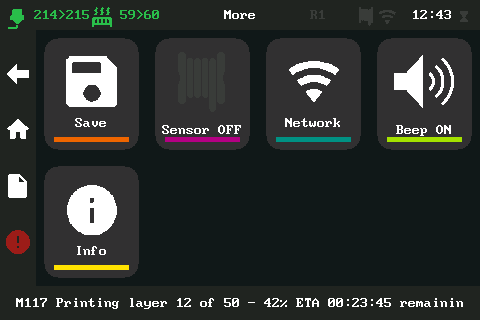
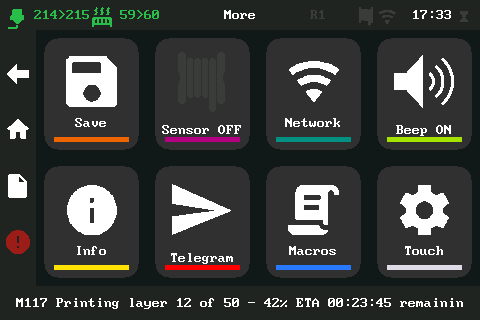
(3)(5)(8) file confirm/delete, custom macro tiles, touch wizard
- tapping a file now asks Print (with the estimated time from Moonraker) or
  Delete, instead of starting it straight away
- More -> Macros reads panel_macros.json and draws up to 7 custom tiles
  (example file in tools/); unknown icons fall back to 'script'
- More -> Touch runs a 4-point calibration wizard and prints the raw values
  plus swap/invert flags to paste into [display]

Changed region(s): [[0.3125, 0.5, 0.75, 0.875], [0.7812, 0.5, 1.0, 0.875], [0.9062, 0.0312, 0.9375, 0.0625]]

diff --git a/mcu/st7796.py b/mcu/st7796.py
@@ -14,6 +14,7 @@ import socket
 import subprocess
 import threading
 import time
+import urllib.parse
 import urllib.request
 from . import tft_icons
 from . import tft_thumb
@@ -108,6 +109,10 @@ GUI_SCREENS = {
     ],
     # 'probe' (Z-Probe) is drawn by _probe_view_ops: see Z_STEPS below.
     'probe': [],
+    # 'touch calibration' wizard draws its own overlay.
+    'tcal': [],
+    # 'macros' is filled from panel_macros.json at runtime.
+    'macros': [],
     # 'print' is built dynamically from the virtual SD files (see _print_items)
     'print': [],
     'filament': [
@@ -138,6 +143,8 @@ GUI_SCREENS = {
         ("Beep", "beep", ('beep',)),
         ("Info", "info", ('scr', 'info')),
         ("Telegram", "tg", ('tgtest',)),
+        ("Macros", "script", ('scr', 'macros')),
+        ("Touch", "settings", ('scr', 'tcal')),
     ],
 }
 
@@ -228,7 +235,8 @@ GUI_TITLES = {'ptune': 'Tune', 'filament': 'Filament',
               'meshadj': 'Adjust', 'advanced': 'Advanced',
               'limits': 'Limits', 'calibrate': 'Calibrate', 'pid': 'PID',
               'info': 'Info', 'filout': 'Filament',
-              'wifilist': 'WiFi', 'wifikey': 'WiFi'}
+              'wifilist': 'WiFi', 'wifikey': 'WiFi',
+              'tcal': 'Touch', 'macros': 'Macros'}
 
 # Sentinel stored in the grid for a cell holding an icon (drawn by write_glyph).
 ICON = 0x100
@@ -694,6 +702,9 @@ class ST7796:
         self._upd_n = 0
         self._upd_next = 0.
         self._upd_busy = False
+        self._choice = None
+        self._macros_cache = (0., [])
+        self._tcal = None
         self._bstep_i = 1
         self._baby_dirty = False
         self._popup = None
@@ -1567,6 +1578,8 @@ class ST7796:
     def _screen_items(self):
         if self.gui_screen == 'print':
             return []
+        if self.gui_screen == 'macros':
+            return self._macro_items()
         return GUI_SCREENS.get(self.gui_screen, [])
     def _gui_buttons(self):
         cols = GUI_COLS.get(self.gui_screen, 4)
@@ -3193,7 +3206,7 @@ class ST7796:
         elif kind == 'print':
             files = self._sd_files()
             if files:
-                self._gui_do(('sd', files[self._sd_sel][0]), eventtime)
+                self._choice_open(files[self._sd_sel][0], eventtime)
             return
         self._gui_render(eventtime)
         self._gui_run_action("M300 S600 P12" if self.gui_beep else None)
@@ -3454,7 +3467,11 @@ class ST7796:
                                            self._gc(idx)]))
         ops.append(lambda et=eventtime: self._gui_topbar(et))
         ops.append(lambda et=eventtime: self._gui_bottombar(et))
-        if getattr(self, '_notice', None):
+        if self.gui_screen == 'tcal':
+            self._tcal_ops(ops)
+        elif getattr(self, '_choice', None):
+            self._choice_ops(ops)
+        elif getattr(self, '_notice', None):
             self._notice_ops(ops)
         self._gui_enqueue(ops)
     def _raw_to_screen(self, rx, ry):
@@ -4082,6 +4099,174 @@ class ST7796:
             return " / ".join(out) or "everything is up to date"
         except Exception:
             return "cannot read the update status"
+
+    # --- file choice popup ------------------------------------------------
+    def _choice_btns(self):
+        w = 150
+        h = 46
+        y = self.TOP_H + 150
+        return [('print', (self.width - 2 * w - 12) // 2, y, w, h),
+                ('del', (self.width - 2 * w - 12) // 2 + w + 12, y, w, h)]
+    def _choice_ops(self, ops):
+        bg = self.gui_bar_bg
+        w, h = 400, 210
+        x = (self.width - w) // 2
+        y = self.TOP_H + (self.height - self.STRIP_H - self.TOP_H - h) // 2
+        ops.append(lambda: self._gui_round(x, y, w, h, bg))
+        name = self._choice.get('name', '')
+        ops.append(lambda: self._gui_text_center(
+            x, w, y + 14, name[-26:], COL_WHITE, bg, 1))
+        eta = self._choice.get('eta')
+        sub = ('estimated %s' % eta) if eta else 'reading the file...'
+        ops.append(lambda: self._gui_text_center(
+            x, w, y + 40, sub, COL_DIM2, bg, 1))
+        for (kind, bx, by, bw, bh) in self._choice_btns():
+            lab = "Print" if kind == 'print' else "Delete"
+            acc = COL_OK if kind == 'print' else COL_ERR
+            ops.append(lambda bx=bx, by=by, bw=bw, bh=bh: self._gui_round(
+                bx, by, bw, bh, self.gui_btn_bg))
+            ops.append(lambda bx=bx, by=by, bw=bw, bh=bh, lab=lab:
+                       self._gui_text_center(bx, bw, by + (bh - 16) // 2,
+                                             lab, COL_WHITE, self.gui_btn_bg,
+                                             1))
+            ops.append(lambda bx=bx, by=by, bw=bw, bh=bh, acc=acc:
+                       self.cmd_rect.send([bx + 8, by + bh - 9, bw - 16, 4,
+                                           acc]))
+    def _choice_open(self, name, eventtime):
+        self._choice = {'name': name, 'eta': None}
+        self._gui_render(eventtime)
+
+        def _run():
+            try:
+                q = urllib.parse.quote(name)
+                with urllib.request.urlopen(
+                        'http://127.0.0.1:7125/server/files/metadata'
+                        '?filename=' + q, timeout=10) as r:
+                    d = json.loads(r.read().decode())['result']
+                est = int(d.get('estimated_time') or 0)
+            except Exception:
+                est = 0
+            if est > 0 and self._choice is not None:
+                self._choice = {'name': name,
+                                'eta': '%dh%02dm' % (est // 3600,
+                                                     (est % 3600) // 60)}
+            self._gui_pending = time.monotonic() + 0.2
+        threading.Thread(target=_run, daemon=True).start()
+    def _file_delete(self, name, eventtime):
+        def _run():
+            ok = False
+            try:
+                q = urllib.parse.quote(name)
+                req = urllib.request.Request(
+                    'http://127.0.0.1:7125/server/files/gcodes/' + q,
+                    method='DELETE')
+                with urllib.request.urlopen(req, timeout=10) as r:
+                    ok = r.status == 200
+            except Exception:
+                ok = False
+            self._notice = (("File deleted" if ok else "Delete failed"),
+                            name[-40:])
+            self._notice_icon = 'check' if ok else 'alert'
+            self._sd_cache_t = 0.
+            self._gui_pending = time.monotonic() + 0.2
+        threading.Thread(target=_run, daemon=True).start()
+
+    # --- custom macros (panel_macros.json) --------------------------------
+    def _panel_macros(self):
+        path = os.path.expanduser('~/printer_data/config/panel_macros.json')
+        try:
+            mt = os.stat(path).st_mtime
+        except OSError:
+            return []
+        if self._macros_cache[0] == mt:
+            return self._macros_cache[1]
+        try:
+            with open(path) as f:
+                data = json.load(f)
+            out = []
+            for it in data:
+                if isinstance(it, dict) and it.get('label') and it.get('gcode'):
+                    ico = str(it.get('icon') or 'script')
+                    if ico not in tft_icons.ICONS and ico not in EXTRA_ICONS:
+                        ico = 'script'
+                    out.append((str(it['label'])[:10], ico, str(it['gcode'])))
+        except Exception:
+            out = []
+        self._macros_cache = (mt, out)
+        return out
+    def _macro_items(self):
+        items = list(self._panel_macros())[:7]
+        items.append(("Back", "back", ('scr', 'more')))
+        return items
+
+    # --- touch calibration wizard -----------------------------------------
+    TCAL_STEPS = 4
+    def _tcal_targets(self):
+        r = self.RAIL_W + 42
+        top = self.TOP_H + 42
+        bot = self.height - self.STRIP_H - 42
+        return [(r, top), (self.width - 42, top),
+                (r, bot), (self.width - 42, bot)]
+    def _tcal_ops(self, ops):
+        if self._tcal is None:
+            self._tcal = {'pts': [], 'res': None}
+        t = self._tcal
+        bg = COL_BG
+        res = t.get('res')
+        if res:
+            x0, x1, y0, y1, swap, invx, invy = res
+            lines = [("raw_x_min: %d" % x0, COL_WHITE),
+                     ("raw_x_max: %d" % x1, COL_WHITE),
+                     ("raw_y_min: %d" % y0, COL_WHITE),
+                     ("raw_y_max: %d" % y1, COL_WHITE),
+                     ("touch_swap_xy: %s" % swap, COL_WARN if swap else COL_DIM2),
+                     ("touch_invert_x: %s" % invx, COL_WARN if invx else COL_DIM2),
+                     ("touch_invert_y: %s" % invy, COL_WARN if invy else COL_DIM2)]
+            ops.append(lambda: self._gui_text(self.RAIL_W + 14, self.TOP_H + 14,
+                                              "Paste under [display]:",
+                                              COL_DIM2, bg, 1))
+            y = self.TOP_H + 40
+            for txt, col in lines:
+                ops.append(lambda txt=txt, y=y, col=col:
+                           self._gui_text(self.RAIL_W + 14, y, txt, col, bg, 1))
+                y += 22
+            ops.append(lambda: self._gui_text(self.RAIL_W + 14, y + 8,
+                                              "tap anywhere to finish",
+                                              COL_DIM2, bg, 1))
+            return
+        n = len(t['pts'])
+        tx, ty = self._tcal_targets()[min(n, 3)]
+        ops.append(lambda: self._gui_text_center(
+            self.RAIL_W, self.width - self.RAIL_W, self.TOP_H + 6,
+            "Touch calibration", COL_WHITE, bg, 1))
+        ops.append(lambda: self._gui_text_center(
+            self.RAIL_W, self.width - self.RAIL_W, self.TOP_H + 24,
+            "tap the crosshair (%d of 4)" % (n + 1), COL_DIM2, bg, 1))
+        ops.append(lambda: self.cmd_rect.send([tx - 1, ty - 24, 3, 48, COL_WARN]))
+        ops.append(lambda: self.cmd_rect.send([tx - 24, ty - 1, 48, 3, COL_WARN]))
+    def _tcal_tap(self, rx, ry, eventtime):
+        t = self._tcal
+        if t is None:
+            return
+        if t.get('res'):
+            self._tcal = None
+            self._gui_do(('scr', 'more'), eventtime)
+            return
+        t['pts'].append((rx, ry))
+        if len(t['pts']) >= 4:
+            ax, ay = t['pts'][0]
+            bx, by = t['pts'][1]
+            cx, cy = t['pts'][2]
+            dx2, dy2 = t['pts'][3]
+            swap = abs(ay - by) > abs(ax - bx)
+            if swap:
+                xs = [ay, by, cy, dy2]; ys = [ax, bx, cx, dx2]
+            else:
+                xs = [ax, bx, cx, dx2]; ys = [ay, by, cy, dy2]
+            invx = (by < ay) if not swap else (bx < ax)
+            invy = (cx < ax) if not swap else (cy < ay)
+            t['res'] = (min(xs), max(xs), min(ys), max(ys), swap, invx, invy)
+        self._gui_render(eventtime)
 
     # --- on-screen keyboard ----------------------------------------------
     _KB_LETTERS = (list('qwertyuiop'),
@@ -4914,6 +5099,26 @@ class ST7796:
         if (self.width - 156) <= sx0 < (self.width - 136) and 2 <= sy0 < 28:
             self._notice = ("Updates available", self._upd_text()[:40])
             self._notice_icon = 'refresh'
+            self._gui_render(eventtime)
+            return
+        if self.gui_screen == 'tcal':
+            try:
+                self._tcal_tap(rx, ry, eventtime)
+            except Exception:
+                logging.exception("st7796: touch calibration failed")
+            return
+        if self._choice is not None:
+            for (kind, x, y, w, h) in self._choice_btns():
+                if x <= sx0 < x + w and y <= sy0 < y + h:
+                    name = self._choice.get('name', '')
+                    self._choice = None
+                    if kind == 'print':
+                        self._gui_do(('sd', name), eventtime)
+                    else:
+                        self._file_delete(name, eventtime)
+                        self._gui_render(eventtime)
+                    return
+            self._choice = None
             self._gui_render(eventtime)
             return
         if self._notice:

diff --git a/tools/tft_sim.py b/tools/tft_sim.py
@@ -214,6 +214,9 @@ def build(printing, paused=False):
     o._kb_sym = False
     o._kb_show = False
     o._err_shown = None
+    o._choice = None
+    o._macros_cache = (0., [])
+    o._tcal = None
     o._upd_n = 0
     o._upd_next = 0.
     o._upd_busy = False

diff --git a/README.md b/README.md
@@ -24,6 +24,8 @@ max (most of the time is the first controller flash).
 | ![Extruder](images/panel_extrude.png)<br>**Extruder** — load/unload filament, extrude | ![Filament](images/panel_filament.png)<br>**Filament** — eject/insert, live baby stepping |
 | ![More](images/panel_more.png)<br>**More** — save config, filament sensor, network, beep | ![Power](images/panel_estop.png)<br>**Power** — emergency stop, restart, host shutdown |
 | ![Adjust popup](images/panel_popup.png)<br>**Adjust popup** — −, +, step toggle and save | ![Boot splash](images/splash.png)<br>**Boot splash** — the Mingda mark, drawn by the board |
+| ![File confirm](images/panel_file_choice.png)<br>**Files** — confirm with the estimated time, or delete | ![Macros](images/panel_macros.png)<br>**Macros** — your own buttons from a JSON file |
+| ![Touch calibration](images/panel_touch_cal.png)<br>**Touch** — 4-point calibration wizard | ![Klipper error](images/panel_klipper_error.png)<br>**Klipper error** — the reason, then restart right there |
 
 ---
 
@@ -219,7 +221,7 @@ Everything is a tap; the left rail is always there
 | Screen | How to get there | What it does |
 |---|---|---|
 | **Printing** | starts automatically during a print | Object preview (from the gcode thumbnail), live values list, pause/resume, cancel. Tap a list row to adjust it on the spot. |
-| **Files** | rail 📄 or **Main → Print** | Pick a file, ▲/▼ page, ▶ to start |
+| **Files** | rail 📄 or **Main → Print** | Pick a file (▲/▼ page); ▶ asks **Print** (with the estimated time) or **Delete** — tap outside to cancel |
 | **Main** | rail 🏠 | Move, Temperature, Extruder, Print, Level, Z Calibrate, More, Home |
 | **Move** | Main → Move | Jog X/Y/Z; the bottom strip changes the step size |
 | **Temperature** | Main → Temperature | Preheat presets (PLA/PETG/ABS/TPU), cool down, set nozzle/bed |
@@ -228,11 +230,16 @@ Everything is a tap; the left rail is always there
 | **Adjust** | Level → Adjust | Tap a grid point (the nozzle moves there and down to the mesh surface), then nudge with − / + and a 0.005/0.01/0.1 step. **Save** writes it to `printer.cfg`. |
 | **Advanced** | Extruder → More… → Advanced | Pressure advance, smooth time, input shaper frequencies — tap a card, adjust, **Save** to keep it |
 | **Limits** | More → More… → Limits | Velocity, acceleration, square corner velocity, minimum cruise ratio |
-| **More** | Main → More | PID, save config, filament sensor, network info, beep, motors off |
+| **More** | Main → More | Save config, filament sensor, network, beep, Info, Telegram, **Macros**, **Touch** |
+| **Macros** | More → Macros | Your own buttons, defined in `panel_macros.json` (see below) |
+| **Touch** | More → Touch | 4-point touch calibration: tap the crosshairs, then copy the printed values into `printer.cfg` |
+| **Klipper error** | appears by itself | If Klipper stops, the panel shows the reason and two buttons: **Firmware Restart** and **Host Reboot** |
 | **Power** | rail ⚠ | Emergency stop, Klipper restart, **Firmware restart**, reboot/shutdown the Pi |
 
 Tips
 
+- The top bar shows an **orange arrow** when Moonraker finds updates for
+  Klipper or Mainsail; tap it to see how many commits each one is behind.
 - The **amount of each adjustment** (the step) is itself a button: tap it to
   cycle 0.1 → 0.5 → 1 → … or 0.005 → 0.01 → 0.1.
 - **Pause**, **Cancel** and the rail always work, even mid-print.
@@ -329,6 +336,32 @@ sudo visudo -c          # must say "parsed OK"
 The keyboard that asks for the WiFi password also edits the hostname
 (`a-z`, `0-9`, `-`, up to 63 characters). Passwords are masked on screen and
 never written to the Klipper log.
+
+## Custom macro tiles
+
+Any of your macros can have its own big button. Create
+`~/printer_data/config/panel_macros.json` (up to 7 entries) and it shows up
+under **More → Macros**. The file is re-read whenever it changes — no restart.
+
+```json
+[
+  {"label": "Preheat PLA", "icon": "heatup", "gcode": "PREHEAT_PLA"},
+  {"label": "Load",        "icon": "load",   "gcode": "LOAD_FILAMENT"}
+]
+```
+
+- `label` — the text on the tile (10 characters max)
+- `gcode` — anything you would type in the console (a macro name, `M106 S255`, …)
+- `icon` — optional: `alert`, `back`, `bed`, `bedlevel`, `bedmesh`, `check`,
+  `cog`, `console`, `cool`, `down`, `edown`, `eup`, `extrude`, `fan`, `files`,
+  `fire`, `heat`, `heatup`, `heatwave`, `home`, `info`, `led`, `left`, `limits`,
+  `load`, `mesh`, `move`, `network`, `nozzle`, `power`, `print`, `probe`,
+  `refresh`, `right`, `save`, `script`, `settings`, `speed`, `thermo`,
+  `unload`, `up`, `zoffset` (anything else falls back to `script`)
+
+A ready-to-edit copy is in `tools/panel_macros.example.json`.
+
+---
 
 ## Telegram (notifications + commands)
 
